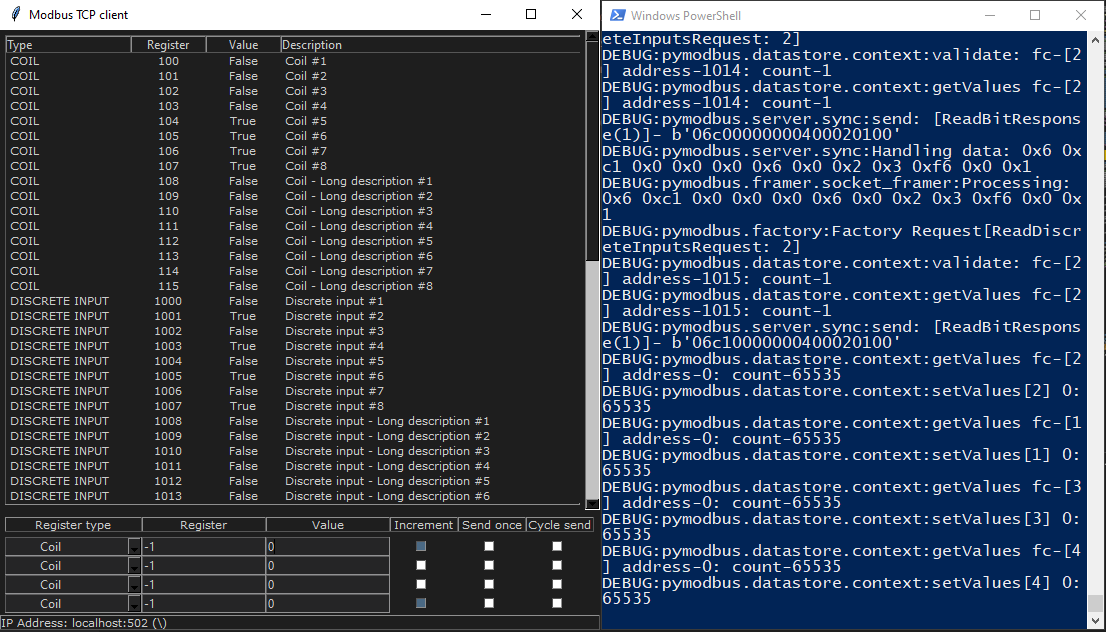
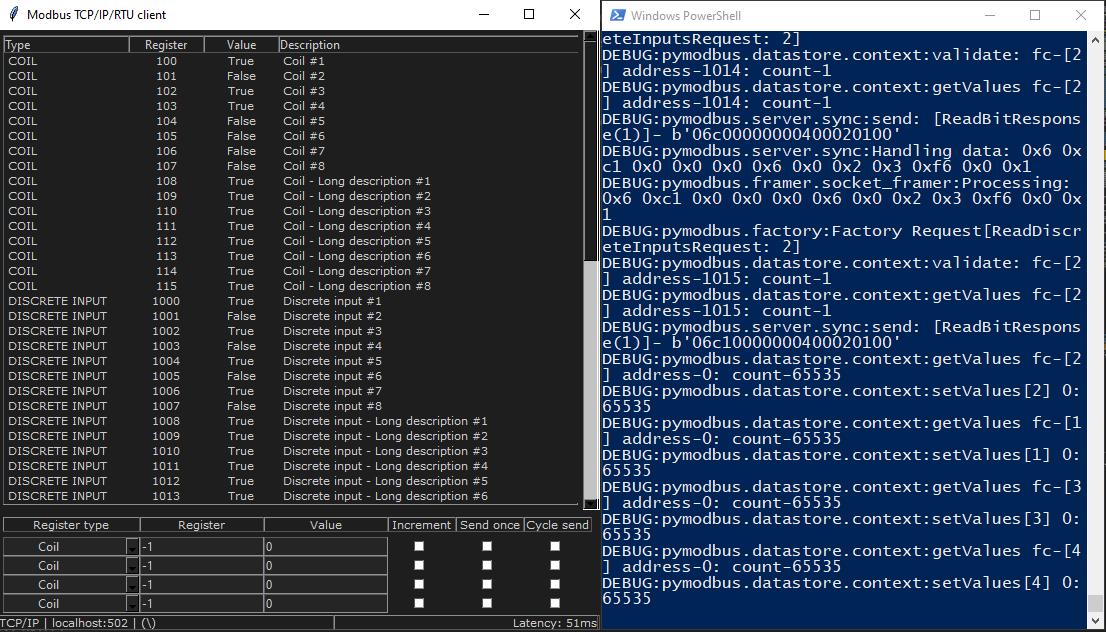
Add session logging feature and update readme

diff --git a/client.py b/client.py
@@ -2,6 +2,7 @@
 from pymodbus.client.sync import ModbusTcpClient, ModbusSerialClient
 from pymodbus.pdu import ExceptionResponse
 import xml.etree.ElementTree as ET
+import os, datetime
 
 def validateXml(file):
     """Validates given xml file and returns a enumeration
@@ -107,26 +108,57 @@ class reader:
         if self.client.connect():
             #Input registers
             for ir in self.xmlData.get('registers').get('ir'):
-                self.update_reg(ir)
+                self._update_reg(ir)
+                self._writeToLog(ir)
                 #ir['str_repr'] = f"INPUT REGISTER | REGISTER: {int(ir.get('register'))} | DESCRIPTION: {ir.get('description')} | VALUE: {ir.get('value')}"
 
             #Holding registers
             for hr in self.xmlData.get('registers').get('hr'):
-                self.update_reg(hr)
+                self._update_reg(hr)
+                self._writeToLog(hr)
                 #hr['str_repr'] = f"HOLDING REGISTER | REGISTER: {int(hr.get('register'))} | DESCRIPTION: {hr.get('description')} | VALUE: {hr.get('value')}"
 
             #Coils
             for co in self.xmlData.get('registers').get('co'):
-                self.update_reg(co)
+                self._update_reg(co)
+                self._writeToLog(co)
                 #co['str_repr'] = f"COIL | REGISTER: {int(co.get('register'))} |DESCRIPTION: {co.get('description')} | VALUE: {co.get('value')}"
 
             #Discrete inputs
             for di in self.xmlData.get('registers').get('di'):
-                self.update_reg(di)
+                self._update_reg(di)
+                self._writeToLog(di)
                 #di['str_repr'] = f"DISCRETE INPUT | REGISTER: {int(di.get('register'))} | DESCRIPTION: {di.get('description')} | VALUE: {di.get('value')}"
 
         else:
             print('Connection failed')
+
+    def _writeToLog(self, reg=None):
+        if not self.xmlData.get('log'):
+            return
+
+        if self.xmlData.get('log') not in ['all', 'partial']:
+            return
+
+        if type(reg)==dict:
+            if self.xmlData.get('log') == 'partial' and not reg.get('log'):
+                return
+            logstr = f"READ;{datetime.datetime.now()};{reg.get('type')};{reg.get('register')};{reg.get('description')};{reg.get('value')};\n"
+        
+        elif type(reg)==tuple:
+            logstr = f"WRITE;{datetime.datetime.now()};{reg[0]};{reg[1]};;{reg[2]};\n"
+        else:
+            #fault
+            return
+
+        #Check if the logging file exists already
+        if os.path.isfile('modbusLog.csv'):
+            with open('modbusLog.csv', 'a') as f:
+                f.write(logstr)
+        else:
+            with open('modbusLog.csv', 'w') as f:
+                f.write(f"Operation;Timestamp;Register Type;Register #; Description;Register Value;\n")
+                f.write(logstr)
 
     def _parseXml(self):
         """Parses xml file and validates the registers"""
@@ -145,7 +177,8 @@ class reader:
                     'register' : int(mapping.get('register')),
                     'type' : 'di',
                     'description' : mapping.get('description', '-'),
-                    'value' : 0
+                    'value' : 0,
+                    'log' : mapping.get('log', False)
                 }
                 di.append(mapDict)
 
@@ -174,7 +207,8 @@ class reader:
                     'bit13' : mapping.get('bit13', '-'),
                     'bit14' : mapping.get('bit14', '-'),
                     'bit15' : mapping.get('bit15', '-'),
-                    'value' : 0
+                    'value' : 0,
+                    'log' : mapping.get('log', False)
                 }
                 ir.append(mapDict)
 
@@ -203,7 +237,8 @@ class reader:
                     'bit13' : mapping.get('bit13', '-'),
                     'bit14' : mapping.get('bit14', '-'),
                     'bit15' : mapping.get('bit15', '-'),
-                    'value' : 0
+                    'value' : 0,
+                    'log' : mapping.get('log', False)
                 }
                 hr.append(mapDict)
 
@@ -216,7 +251,8 @@ class reader:
                     'register' : int(mapping.get('register')),
                     'type' : 'co',
                     'description' : mapping.get('description', '-'),
-                    'value' : 0
+                    'value' : 0,
+                    'log' : mapping.get('log', False)
                 }
                 co.append(mapDict)
 
@@ -244,13 +280,16 @@ class reader:
         data['ip'] = deviceData.get("ip", "localhost")
         data['port'] = int(deviceData.get("port", 502))
         data['timeout'] = int(deviceData.get('timeout', "2"))
+        #Log to file can be all or partial
+        #all logs all, partial only those with the flag
+        data['log'] = deviceData.get('log', False)
 
         return data
 
     def connect(self):
         return self.client.connect()
 
-    def update_reg(self, register):
+    def _update_reg(self, register):
         try:
             if register.get('type') == 'di':
                 data = self.client.read_discrete_inputs(address=register.get('register'), count=1)
@@ -336,8 +375,10 @@ class reader:
         if self.connect():
             if value > 1:
                 value = 1
+            self._writeToLog(reg=('co', register, value))
             return self.client.write_coil(address=register, value=value)
 
     def write_register(self, register, value):
         if self.connect():
+            self._writeToLog(reg=('hr', register, value))
             return self.client.write_register(address=register, value=value)

diff --git a/README.md b/README.md
@@ -2,15 +2,15 @@
 
 ![alt text][screen]
 
-These programs use pyModbus package to implement a Modbus TCP client class, GUI for that client and a server. Configuration of client and the server can be done from the register and device configuration xml. The user of the program just needs to modify the xml file and run the server and GUI.
+These programs use pyModbus package to implement a Modbus client class, GUI for that client and a server. Configuration of client and the server can be done from the register and device configuration xml. The user of the program just needs to modify the xml file and run the server and GUI.
 
 ## Problem that is being solved
 
-In R&D we often need to develop interfaces for our devices and controllers. If we are integrating existing devices into our control system we also need to communicate with those devices. Often, Modbus TCP/IP gets chosen to be the working interface for its reliability and overall experience of the service engineers and developers. Modbus TCP/IP is built on ethernet packets which means we do not necesserally need a PLC or an embedded device to acomplish this interface. We can use our regular laptops and PCs. With the power of Python and PyModbus library we can run a Modbus TCP client and/or a server independent on what OS we are running. Python runs on Windows, MacOS and Linux and this program was even tested on a Raspbian running on Raspberry PI 3B+.
+In R&D we often need to develop interfaces for our devices and controllers. If we are integrating existing devices into our control system we also need to communicate with those devices. Often, Modbus gets chosen to be the working interface for its reliability and overall experience of the service engineers and developers. Modbus is also quite a defined interface which means we do not necessarilly need a PLC or an embedded device to acomplish this interface. We can use our regular laptops and PCs. With the power of Python and PyModbus library we can run a Modbus client and/or a server independent on what OS we are running. Python runs on Windows, MacOS and Linux and this program was even tested on a Raspbian running on Raspberry PI 3B+.
 
-In Modbus TCP we have client(master)/server(slave) architecture which means we need two computers running either a client or a server. Some of the example configurations that we can test with this program are described in the headings below.
+In Modbus, we have a client(master)/server(slave) architecture which means we need two computers running either a client or a server. Some of the example configurations that we can test with this program are described in the headings below.
 
-Usually to implement a modbus interface we need a mapping file. This mapping file can come in many formats but what it is containing is simple. What registers are avaialable and what is the location of that mapping in the register. This program is using XML technology to standardize these various formats. As a user of this program you are required to build that XML file from the modbus interface list.
+Usually to implement a modbus interface we need a mapping file. This mapping file can come in many formats but its contents are simple. Registers thatare available and their location in the modbus memory address. This program is using XML technology to standardize these various formats. As a user of this program you are required to build that XML file from the modbus interface list.
 
 ### PLC running a client - local PC/Laptop/Raspberry running a server
 
@@ -54,11 +54,19 @@ Install pyModbus with command "python pip install pymodbus"
         vendorName = "TkAutomation"
         productCode = ""
         vendorUrl = "https://github.com/tkucic/autoClientServer_modbusTcp"
-        productName = "EASY CLIENT/SERVER SIMULATOR FOR MODBUS TCP"
-        modelName = "SERVER SIMULATOR FOR MODBUS TCP"
+        productName = "EASY CLIENT/SERVER SIMULATOR FOR MODBUS TCP/RTU"
+        modelName = "SERVER SIMULATOR FOR MODBUS TCP/RTU"
         version = "1.0-0"
+        modbusType = "tcp/ip"
+        timeout = "2"
         ip = "localhost"
         port = "502"
+        com = "COM2"
+        baud = "19200"
+        stopbits = "1"
+        bytesize = "8"
+        parity = "E"
+        log = "partial"
     />
     <!-- GUIDE ON XML SCHEMA
     If server simulator is parsing this file:
@@ -72,30 +80,34 @@ Install pyModbus with command "python pip install pymodbus"
     <registers>
         <!--Coils-->
         <co>
-            <mapping description="Coil #1" register="100" initialValue="0" />
+            <mapping description="Coil #1" register="100" initialValue="0" log="True" />
             .
             .
         </co>
         <!--Discrete inputs-->
         <di>
-            <mapping description="Discrete input #1" register="1000" initialValue="0" />
+            <mapping description="Discrete input #1" register="1000" initialValue="0" log="True" />
             .
             .
         </di>
         <!--Input registers-->
         <ir>
-            <mapping description="Input register #1" register="10000" initialValue="1000" />
+            <mapping description="Input register #1" register="10000" initialValue="1000" log="True" />
             .
             .
         </ir>-->
         <!--Holding registers-->
         <hr>
             .
-            .<mapping description="Holding register #1" register="20000" initialValue="100" />
+            .<mapping description="Holding register #1" register="20000" initialValue="100" log="True" />
         </hr>
     </registers>
 </project>
 ```
+
+## TCP/IP or RTU selection
+
+The scripts have RTU and TCP/IP transportation protocols available and can be used by parametrizing the deviceData xml node. Please not that RTU requires a serial com port to be opened and a serial device correctly configured for this to work. To simulate RTU in the same way as TCP/IP for example, a virtual serial com port is needed. Check online to find a suitable virtual com port simulator.
 
 ## Client
 
@@ -105,18 +117,22 @@ The client can be ran from the interactive python shell with the example below. 
 ```python
 
     >> from client.py import reader
-    >> client = reader('c')
+    >> client = reader('path_to_xml_file.xml')
     >> client.connect()
     >> 'True'
-    >> client.update()
-    >> client.registers.get('di')
+    >> client.update_all()
+    >> client.xmlData.get('registers').get('di')[0]
     f"DISCRETE INPUT | REGISTER: {int(di.get('register'))} | DESCRIPTION: {di.get('description')} | VALUE: {di.get('value')}"
 
-    >> '{register' : 12345, 'description' : 'discrete input register #12345', 'value' : False, 'str_repr' : 'DISCRETE INPUT | REGISTER: 12345 | DESCRIPTION: discrete input register #12345 | VALUE: False'
     >> client.registers.get('hr')
     >> client.registers.get('ir')
 
 ```
+
+## Session logging
+
+Client class has the capability to log everything it reads in csv format. To set it up, in the deviceData xml node, if the log="all" or log="partial" atribute should be passed. log="all" attribute logs all mapped register and the log="partial" will log only the register with the log="True" attribute.
+The log file is created in the current working directory.
 
 ## Server
 
@@ -159,13 +175,17 @@ For integer registers like input register and holding register, if the user doub
 
 The GUI provides four slots for writing either a coil or a holding register with data. The operator can write to a register only once or cyclically. On top of that, if the increment checkbox is selected, the GUI will increment the register value by 1 every cycle. If a wrong register or data is inputted, the GUI will write the exception message to the register value field so the user knows the write didnt go through.
 
+### Status bar
+
+Status bar is showing the modbus interface type and the used parameters like baud rate and ip address. The latency calculation on the right size is showing how much time is necessary to get all of the defined register value. In translation, how often the data changes.
+
 ### Running the GUI
 
 The GUI can be ran from the command line with the example below. If the number argument is ommitted then the server uses default cycle time of 1500 ms.
 
 ```shell
     python gui.py client_server_signals.xml 1000
-    <pyhon> <gui.py> <path to xml file> <cycle time in ms>
+    <python> <gui.py> <path to xml file> <cycle time in ms>
 ```
 
 ## Contributing
